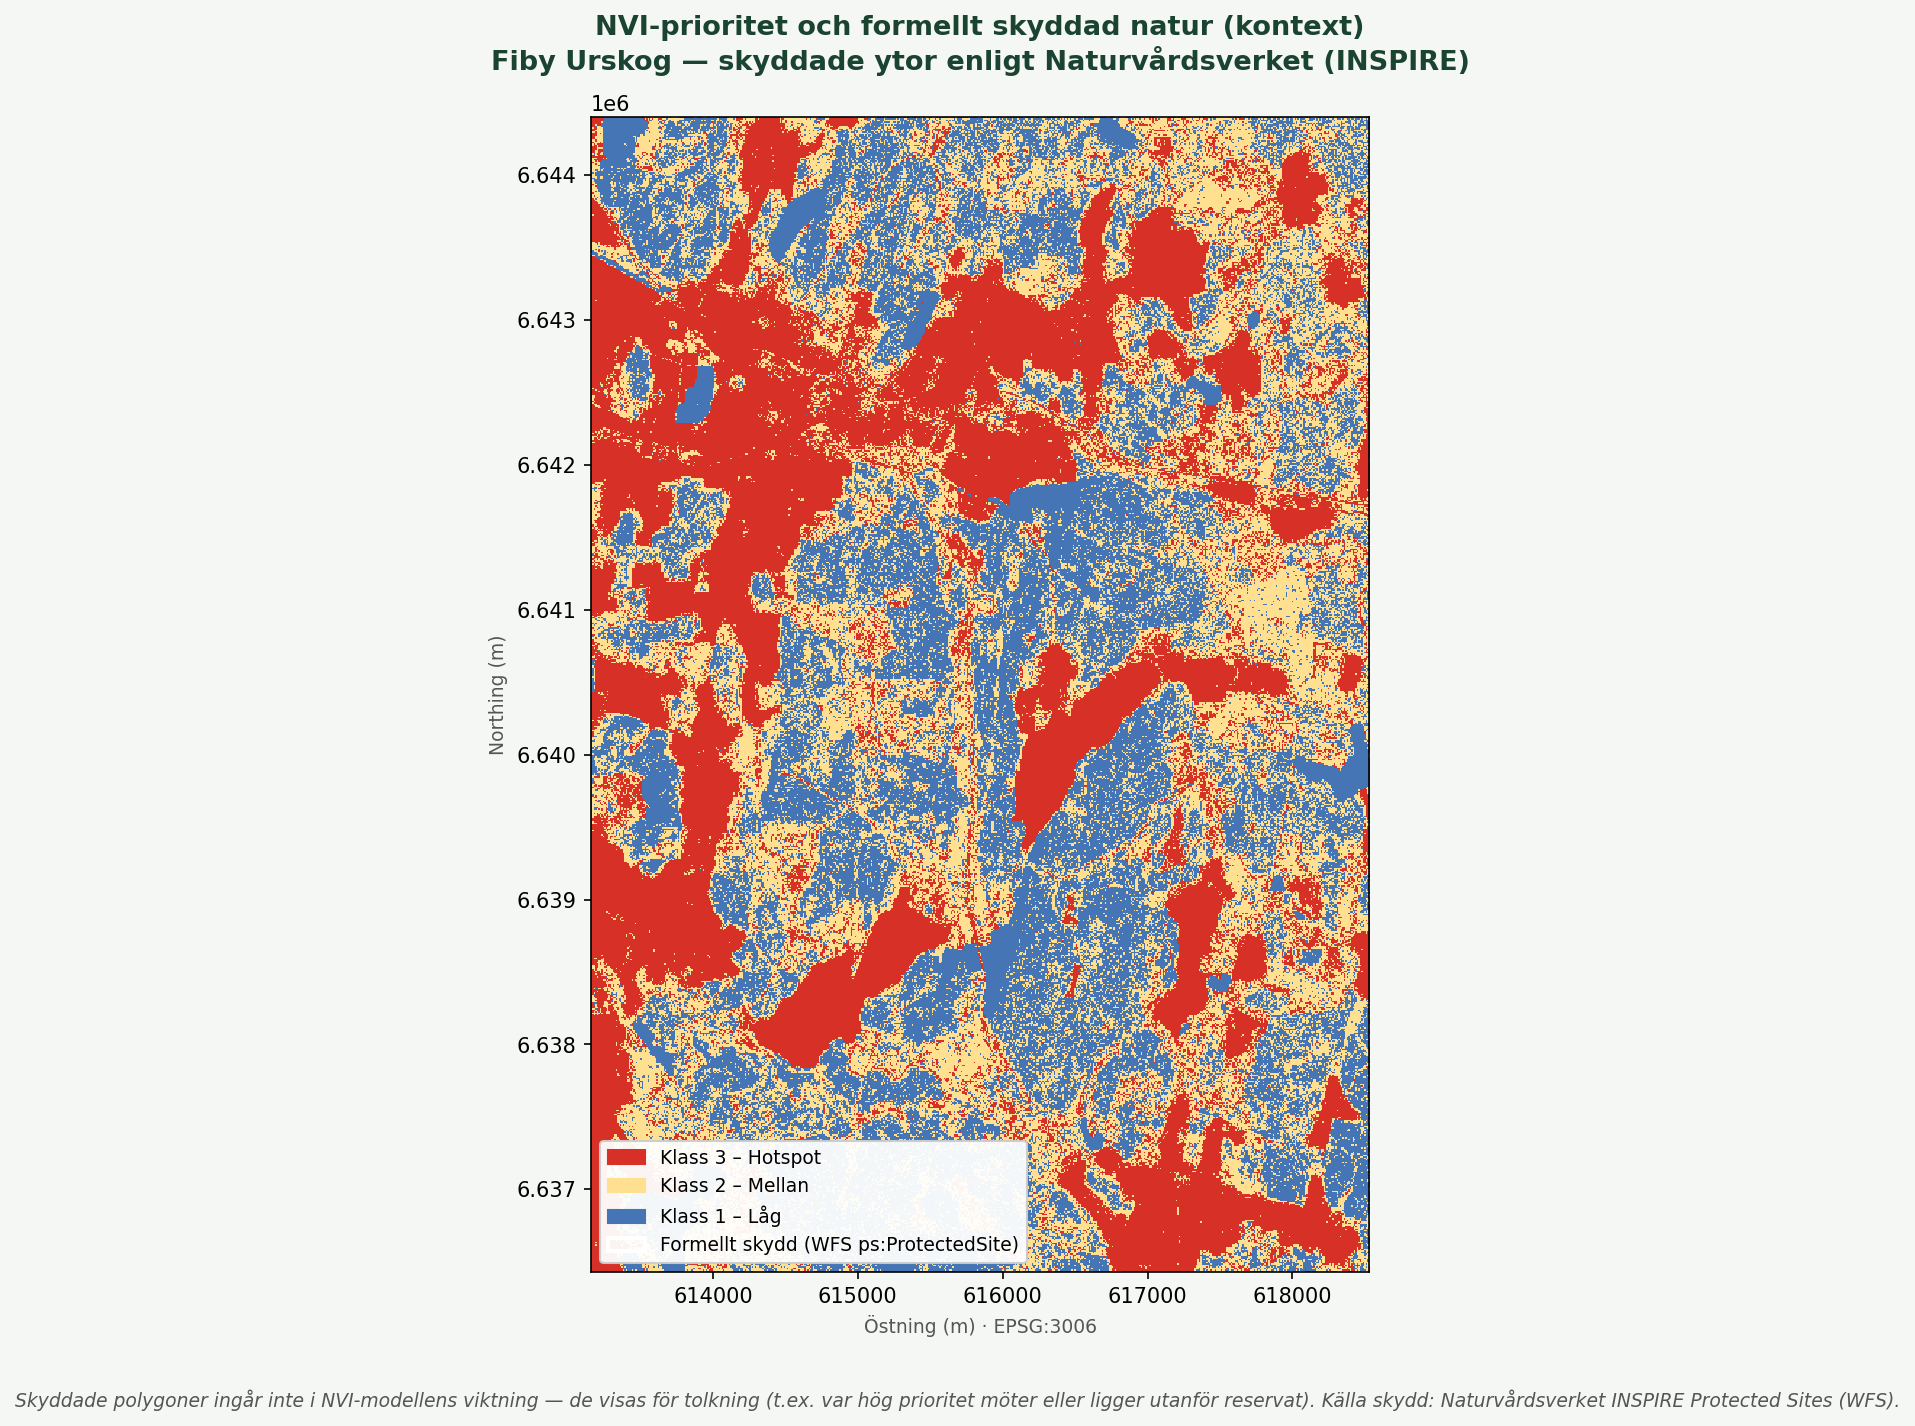
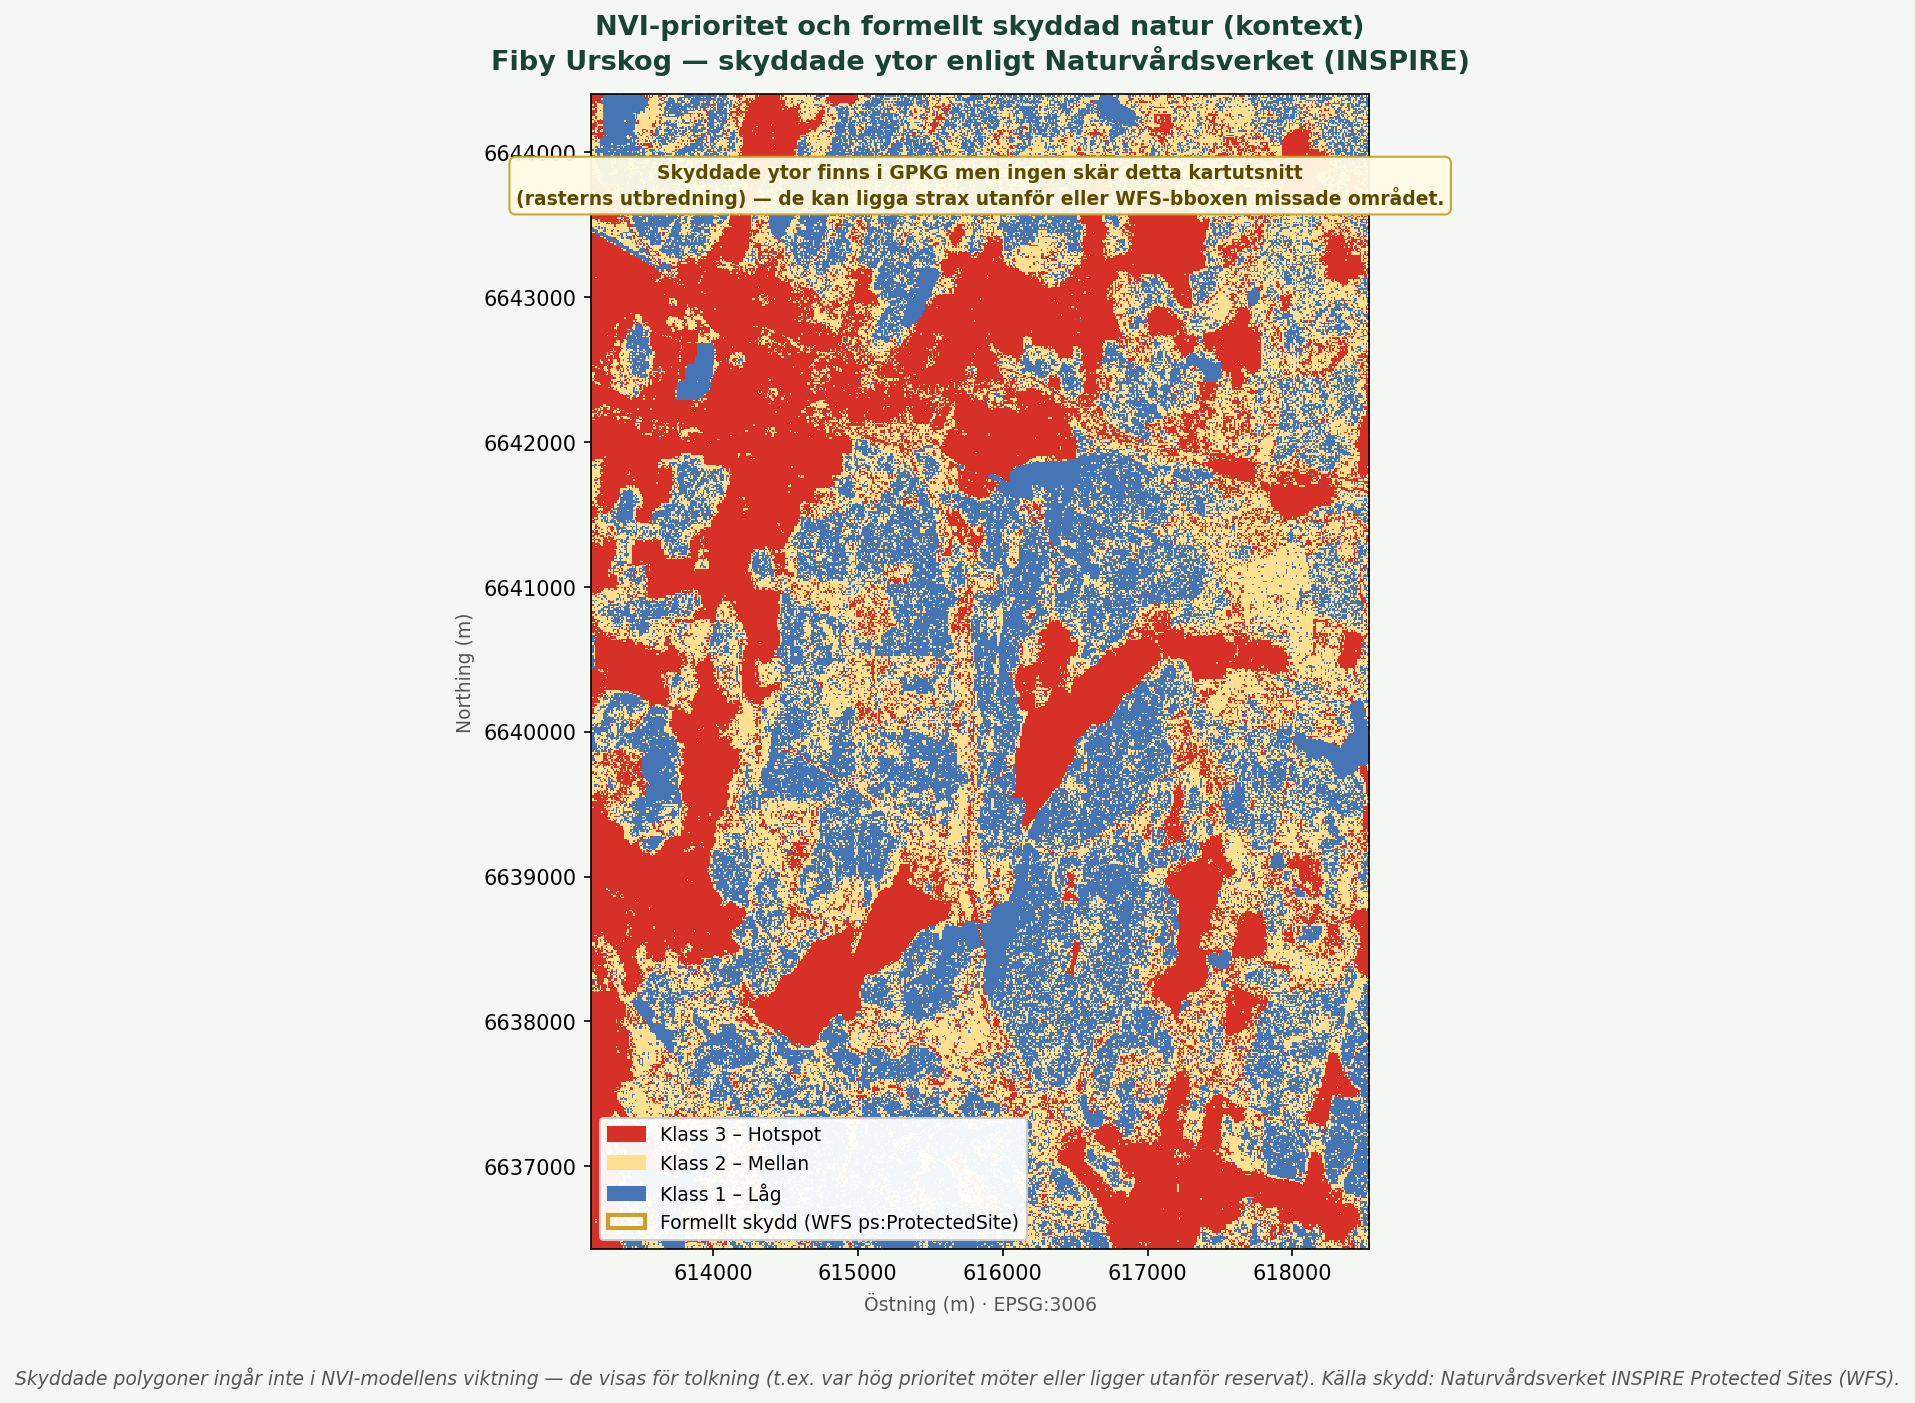
Showcase: axlar utan 1e6, tydligare skydd-overlay och varning utanför utsnitt
- FuncFormatter för heltalskoordinater; dölj offsetText (undvik krock med ticklabel_format)

- Guld kant, endast polygoner som skär raster-extent; kartnot om 0 skär

- Regenererade hotspot_showcase, method_diagram, hotspot_protected_context

Made-with: Cursor

diff --git a/scripts/python/generate_showcase.py b/scripts/python/generate_showcase.py
@@ -19,9 +19,11 @@ import matplotlib.colors as mcolors
 import matplotlib.patches as mpatches
 import matplotlib.gridspec as gridspec
 import matplotlib.patheffects as pe
+import matplotlib.ticker as mticker
 from pathlib import Path
 
 from pyproj import Transformer
+from shapely.geometry import box
 
 sys.path.insert(0, str(Path(__file__).parent))
 from config import AOI_NAME, PROC_DIR, PROTECTED_SITES_DIR, RASTERS_DIR
@@ -405,11 +407,27 @@ def make_hotspot_protected_context_figure() -> None:
 
         left, bottom, right, top = array_bounds(h, w, transform)
 
-    gdf = gpd.read_file(gpkg)
+    try:
+        gdf = gpd.read_file(gpkg, layer="protected_sites")
+    except Exception:
+        gdf = gpd.read_file(gpkg)
     if gdf.crs is None:
         print("[skip] hotspot_protected_context.png — GPKG saknar CRS")
         return
     gdf = gdf.to_crs(crs)
+    view = box(left, bottom, right, top)
+    in_view = gdf.geometry.intersects(view)
+    n_total = len(gdf)
+    n_visible = int(in_view.sum())
+    tb = gdf.total_bounds.tolist()
+    print(
+        f"  [debug] protected sites: {n_total} polygoner, total_bounds={tb}, "
+        f"skär hotspot-utsnitt: {n_visible}"
+    )
+
+    # Tydlig kant mot rastrarna; cyan (#00ffff) syns dåligt mot ljusa pixlar.
+    _prot_edge = "#c9a227"
+    _prot_lw = 2.4
 
     fig, ax = plt.subplots(figsize=(12, 10), facecolor="#f5f7f5")
     cmap_cls = mcolors.ListedColormap(["#4575b4", "#fee090", "#d73027"])
@@ -423,13 +441,15 @@ def make_hotspot_protected_context_figure() -> None:
         extent=(left, right, bottom, top),
         origin="upper",
     )
-    gdf.plot(
-        ax=ax,
-        facecolor=(0, 0, 0, 0),
-        edgecolor="#ffffff",
-        linewidth=1.8,
-        zorder=5,
-    )
+    gdf_vis = gdf.loc[in_view]
+    if not gdf_vis.empty:
+        gdf_vis.plot(
+            ax=ax,
+            facecolor=(0, 0, 0, 0),
+            edgecolor=_prot_edge,
+            linewidth=_prot_lw,
+            zorder=5,
+        )
     ax.set_xlim(left, right)
     ax.set_ylim(bottom, top)
     ax.set_aspect("equal", adjustable="box")
@@ -443,6 +463,40 @@ def make_hotspot_protected_context_figure() -> None:
     )
     ax.set_xlabel(f"Östning (m) · {crs}", fontsize=9, color="#555")
     ax.set_ylabel("Northing (m)", fontsize=9, color="#555")
+    ax.xaxis.set_major_formatter(mticker.FuncFormatter(lambda x, p: f"{x:.0f}"))
+    ax.yaxis.set_major_formatter(mticker.FuncFormatter(lambda x, p: f"{x:.0f}"))
+    ax.xaxis.offsetText.set_visible(False)
+    ax.yaxis.offsetText.set_visible(False)
+
+    if n_total == 0:
+        ax.text(
+            0.5,
+            0.94,
+            "Inga skyddade ytor i GPKG (tom nedladdning).",
+            transform=ax.transAxes,
+            ha="center",
+            va="top",
+            fontsize=10,
+            color="#7f2d2d",
+            fontweight="bold",
+            bbox=dict(boxstyle="round,pad=0.35", facecolor="white", edgecolor="#ccc", alpha=0.92),
+            zorder=6,
+        )
+    elif n_visible == 0:
+        ax.text(
+            0.5,
+            0.94,
+            "Skyddade ytor finns i GPKG men ingen skär detta kartutsnitt\n"
+            "(rasterns utbredning) — de kan ligga strax utanför eller WFS-bboxen missade området.",
+            transform=ax.transAxes,
+            ha="center",
+            va="top",
+            fontsize=9,
+            color="#5c4a00",
+            fontweight="bold",
+            bbox=dict(boxstyle="round,pad=0.35", facecolor="#fffbe6", edgecolor="#c9a227", alpha=0.95),
+            zorder=6,
+        )
 
     leg = [
         mpatches.Patch(color="#d73027", label="Klass 3 – Hotspot"),
@@ -450,7 +504,7 @@ def make_hotspot_protected_context_figure() -> None:
         mpatches.Patch(color="#4575b4", label="Klass 1 – Låg"),
         mpatches.Patch(
             facecolor="none",
-            edgecolor="#ffffff",
+            edgecolor=_prot_edge,
             linewidth=2,
             label="Formellt skydd (WFS ps:ProtectedSite)",
         ),
